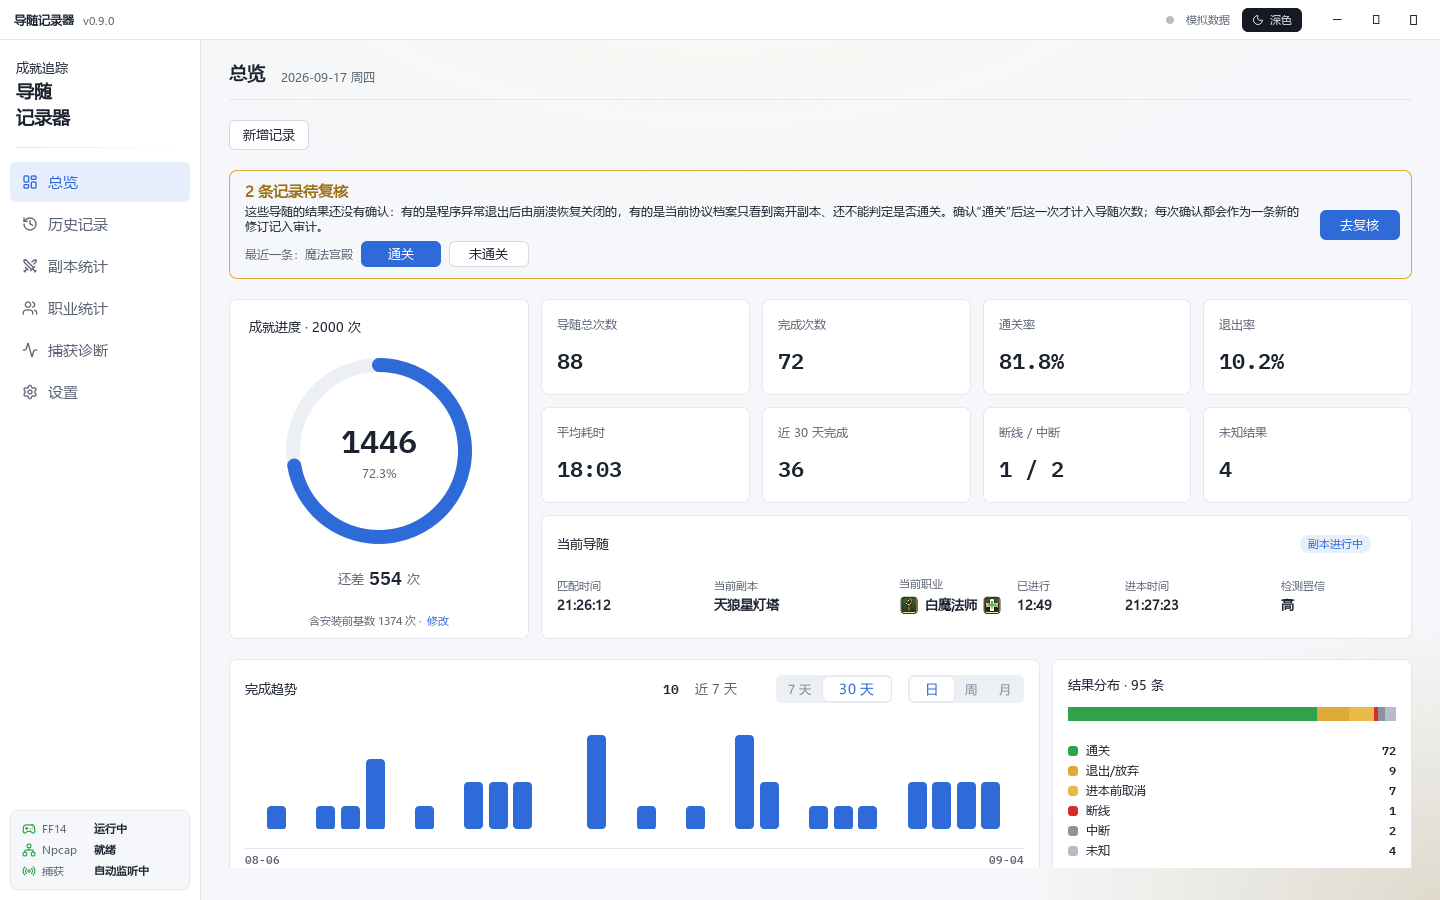
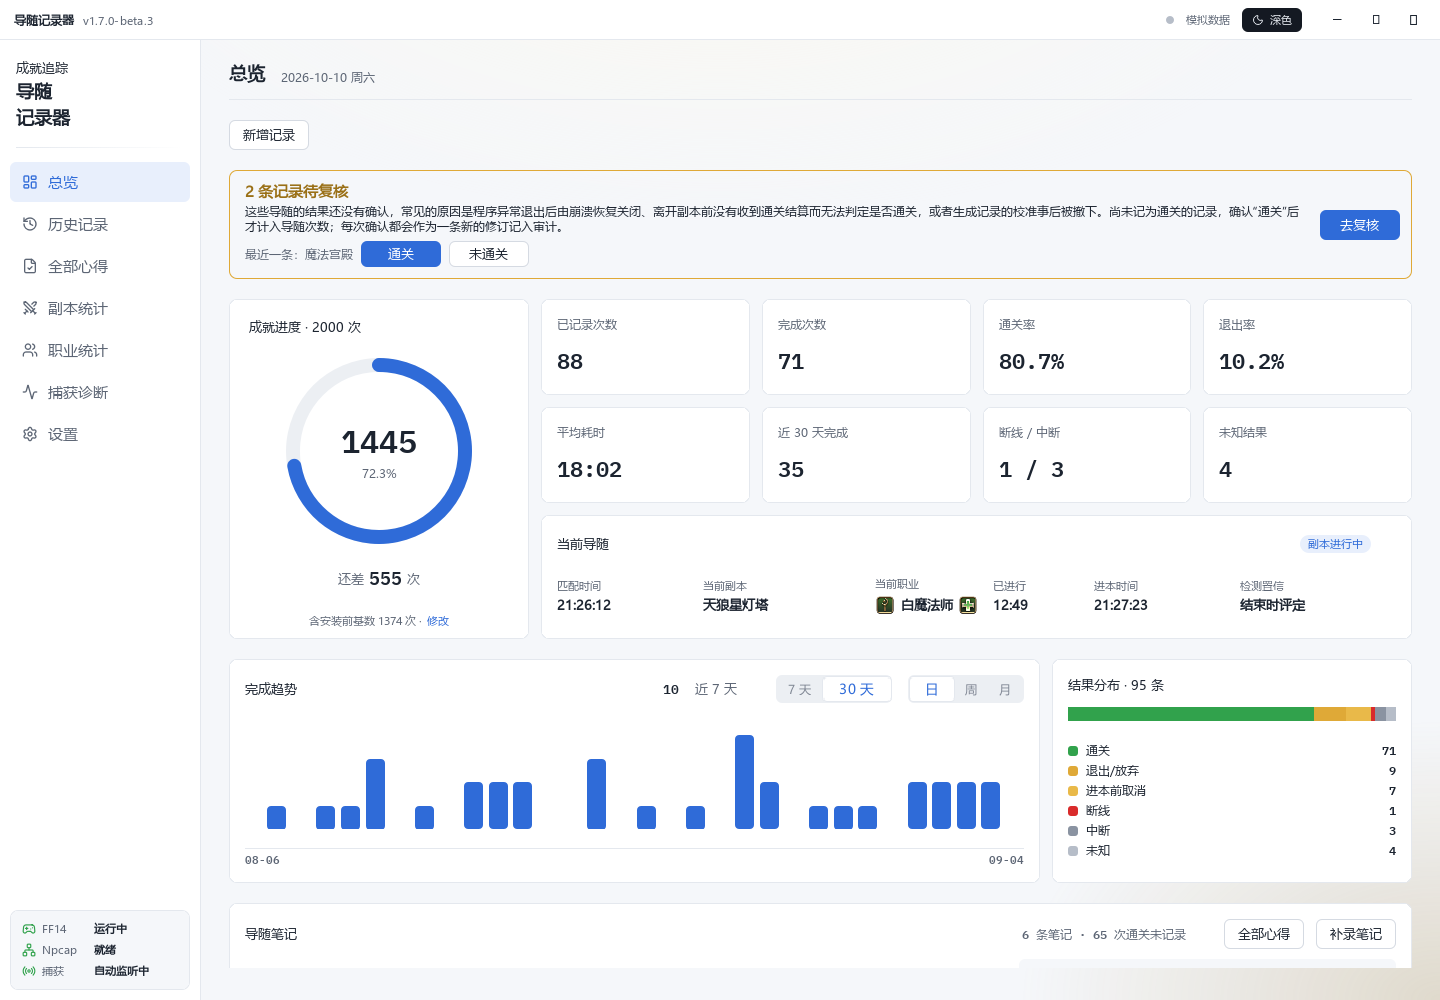
docs: refresh README screenshots for 1.7.0-beta.3

diff --git a/docs/screenshots/README.md b/docs/screenshots/README.md
@@ -3,12 +3,17 @@
 本目录存放 [README.md](../../README.md) 引用的界面截图。截图由桌面端的无头截图模式以模拟数据生成，
 标题栏带有“模拟数据”标识。界面或版本号发生变化后，需按下列命令重新生成：
 
+当前三张截图于 2026-10-10 使用 `1.7.0-beta.3` 程序生成，尺寸为 1440 × 1000；
+总览、历史记录和导入入口均为模拟数据，导入入口展示添加来源文件前的状态。
+
 ```powershell
 $exe = 'build\src\Desktop\MentorRecorder.Desktop.exe'
 & $exe --screenshot docs\screenshots\dashboard-light.png --page 1 --theme light `
-    --mock-recording-state listening --mock-live entered --screenshot-size 1440x900 --screenshot-delay 1500
+    --mock-recording-state listening --mock-live entered --screenshot-size 1440x1000 --screenshot-delay 1500
 & $exe --screenshot docs\screenshots\history-light.png --page 2 --theme light `
-    --mock-recording-state listening --mock-live entered --screenshot-size 1440x900 --screenshot-delay 1500
+    --mock-recording-state listening --mock-live entered --screenshot-size 1440x1000 --screenshot-delay 1500
+& $exe --screenshot docs\screenshots\import-light.png --page 2 --theme light --mock-open-import `
+    --mock-recording-state listening --mock-live entered --screenshot-size 1440x1000 --screenshot-delay 1500
 ```
 
 运行前需将 Qt 与 MinGW 的 `bin` 目录加入 `PATH`，配置方式见

diff --git a/README.md b/README.md
@@ -93,6 +93,7 @@
 <details>
 <summary>更多截图</summary>
 <p align="center"><img src="docs/screenshots/history-light.png" width="800" alt="历史记录页（演示数据）"></p>
+<p align="center"><img src="docs/screenshots/import-light.png" width="800" alt="导入本人记录：添加截图或表格前（演示数据）"></p>
 </details>
 
 **已知限制：** 副本内收到通关结算时，软件自动记为通关并计入进度。该结算目前只在一种副本的一局通关中实测过，
